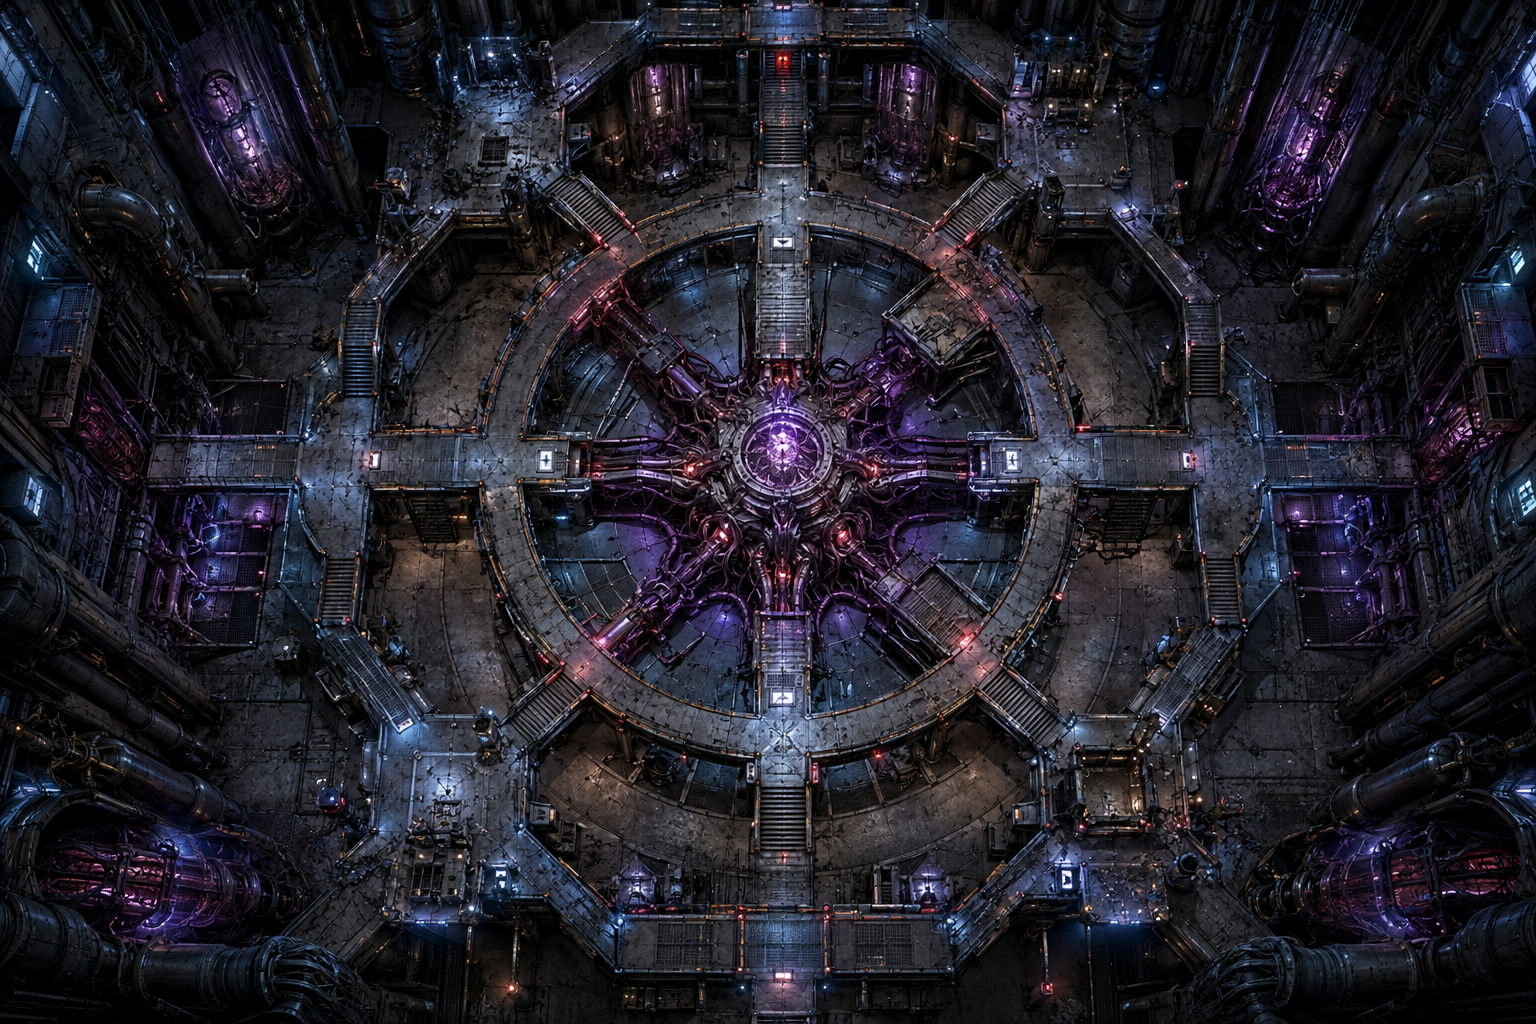
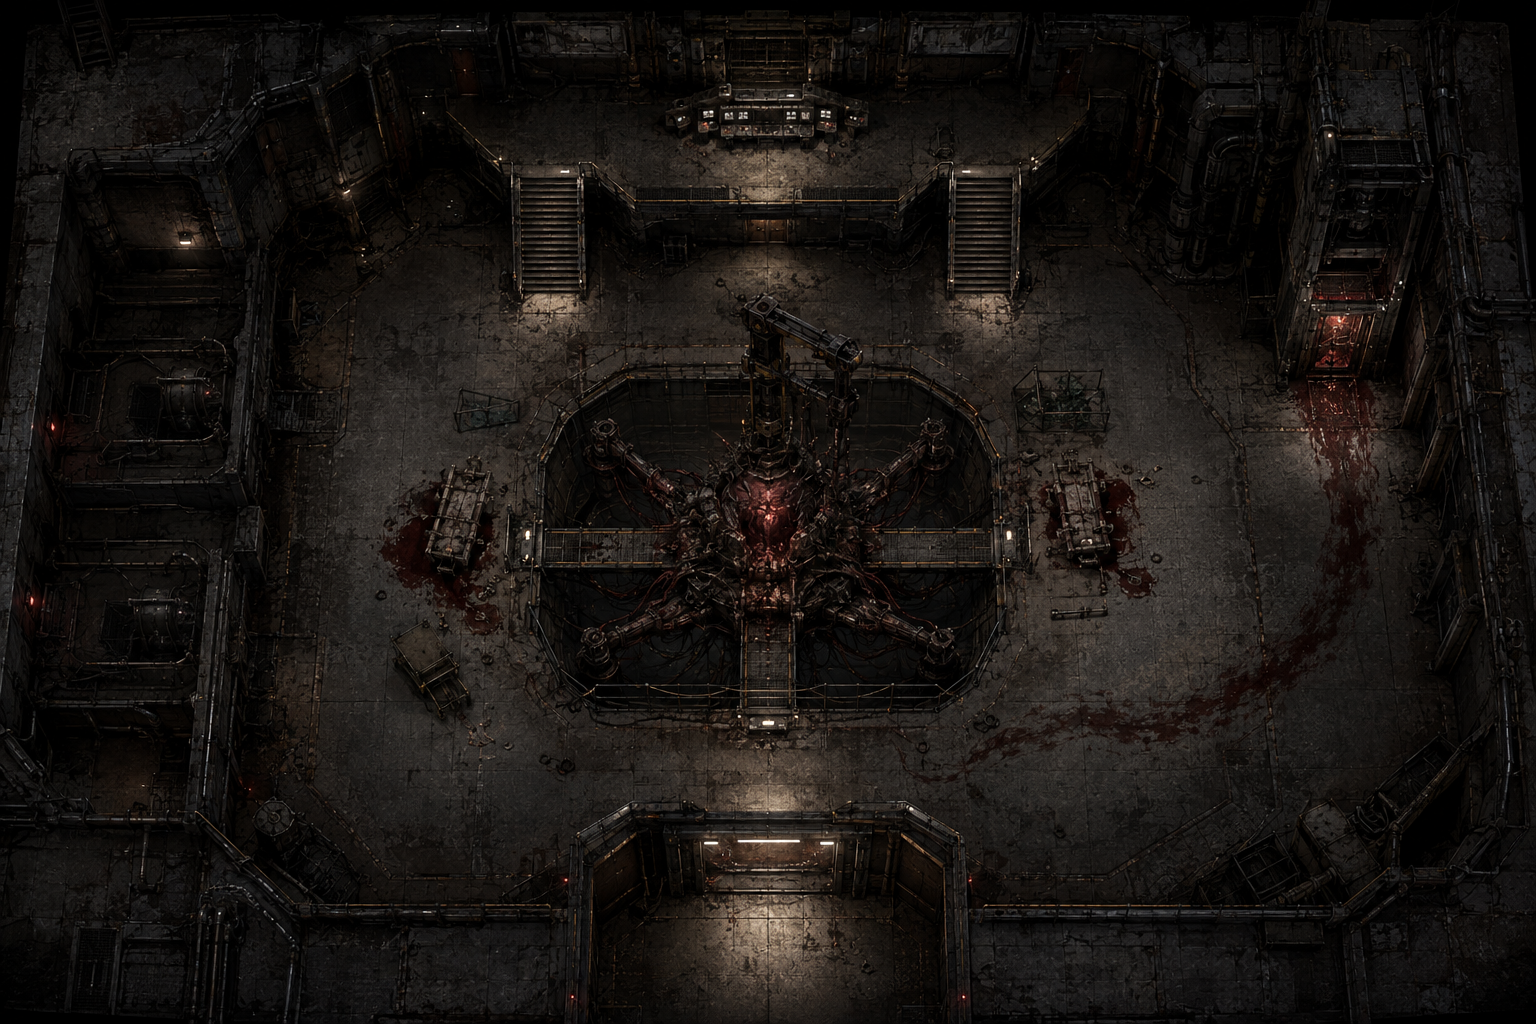
redesign sgio nest battlemaps

diff --git a/docs/sgio-nest-redesign-prompts.md b/docs/sgio-nest-redesign-prompts.md
@@ -1,0 +1,42 @@
+# S.G.I.O. — redesign sombrio do Ninho
+
+## Proveniência
+
+As duas imagens existentes foram usadas como alvos de edição pela skill `imagegen`, no modo integrado. A geometria excessivamente complexa, a simetria e a iluminação ciano/violeta foram deliberadamente removidas. Os arquivos e URLs permaneceram iguais para preservar os registros existentes da mesa.
+
+## Complexo Subterrâneo / Ninho
+
+```text
+Use case: style-transfer
+Asset type: replacement final VTT battlemap for the S.G.I.O. campaign
+Input image: Image 1 is the current Complexo Subterrâneo / Ninho map and is the edit target. Keep only its strict top-down orthographic VTT format and the core idea of a human industrial site being overtaken by biomechanical technology. Deliberately discard its dense maze, dozens of tiny rooms, bright cyan/purple neon and polished sci-fi look.
+Primary request: radically redesign the Ninho as a simpler, clearer, darker underground kidnapping and operations center used by the villain. It must feel hostile, oppressive, dirty and frightening, with environmental evidence that captives were brought here.
+New layout: one large connected floor plan with only five strongly defined playable zones and broad paths: (1) a concrete maintenance entrance with one wide corridor; (2) a holding block with a small row of empty barred containment cells and restraint fixtures; (3) a grim processing/interrogation room with empty metal tables, drains and abandoned medical equipment; (4) a broad industrial operations hall with dismantled machines, cables and two large cover islands; (5) a transformed biomechanical passage leading deeper toward the final chamber. Use few doors, few junctions and long readable sightlines. The progression from human concrete to improvised biomechanical machinery must be gradual.
+Horror storytelling: dark dried blood trails between the holding cells, processing room and deeper passage; several restrained blood smears and small irregular pools on concrete; drag marks; overturned equipment; damaged doors; empty shackles and cages. No visible victim, body or severed anatomy.
+Style/medium: grounded realistic industrial horror, cinematic but functional VTT map, rough and dirty, more abandoned slaughterhouse/bunker than colorful spaceship, original design.
+Composition/framing: STRICT 90-DEGREE TOP-DOWN ORTHOGRAPHIC VIEW, camera perfectly perpendicular, roof removed, landscape 3:2, entire map visible. Large simple rooms, wide walkable floors, bold wall silhouettes and clearly separated objects. Coherent small-token scale. Reduce visual density by at least half compared with Image 1.
+Lighting/mood: very dark, oppressive horror atmosphere using low neutral ambient exposure so floor geometry remains readable; only sparse weak dirty-white maintenance lamps and a few dim red emergency bulbs. NO bright cyan, NO purple neon, NO glowing floor strips, NO bloom, NO colorful rim light.
+Color palette: near-black, charcoal concrete, rusted brown steel, dirty gray, deep dried-blood burgundy, tiny muted red emergency accents; biomechanical material is blackened metal and dark wet organic resin, not luminous.
+Materials/textures: stained concrete, corroded steel, old pipes, bundled cables, scratched restraint hardware, dirty drains, black resin-like biomechanical growth.
+Constraints: simpler and more legible than Image 1; clear playable paths and open token placement; horror and blood are unmistakable but not graphic anatomy; no baked-in grid; no readable text; no letters; no numbers; no logos; no watermark; no UI; no frame; no tokens; no people; no bodies; no creatures; no loose weapons.
+Avoid: maze layout, many tiny chambers, decorative microdetail everywhere, symmetric spaceship deck, clean futuristic laboratory, blue/cyan glow, purple glow, excessive illumination, neon, magical energy, gore piles, corpses, monster faces, pitch-black floors that cannot be played on, isometric or oblique perspective.
+```
+
+## Câmara Central do Ninho
+
+```text
+Use case: style-transfer
+Asset type: replacement final-encounter VTT battlemap for the S.G.I.O. campaign
+Input image: Image 1 is the current Câmara Central do Ninho map and is the edit target. Preserve only its strict top-down VTT format and the premise of a monumental underground chamber. Deliberately discard its perfect radial symmetry, clean futuristic arena, intense blue-violet neon, excessive lights and decorative reactor appearance.
+Primary request: radically redesign the deepest chamber as an irregular, frightening industrial kidnapping and experimentation center that human engineers built and a biomechanical intelligence later corrupted. It must feel monumental through huge simple forms and darkness, not through thousands of tiny details.
+New geometry: an asymmetrical rectangular-to-oval cavern chamber with three unmistakable heights: (1) a broken dark peripheral upper catwalk along portions of the walls; (2) one broad intermediate operations platform reached by exactly two wide stairs; (3) a large sunken central pit holding the biomechanical machine. Player entry is at the bottom through one broad industrial doorway. Two wide routes go left and right around the pit. Exactly two sturdy bridges cross toward the core. Add one villain command balcony at the top and one freight elevator on a side wall. Use strong edges, obvious stairs and deep height shadows so each level reads clearly from above.
+Narrative center: the central machine is an improvised fusion of an old human crane/reactor and a dark biomechanical cocoon. Four to six thick cable-arms connect it to empty restraint frames and three abandoned medical tables. Nearby: cracked containment glass, open shackles, a fallen gurney and a sparse control station. The core must occupy less than one third of the playable arena, leaving a large clear circulation ring.
+Horror storytelling: a long dried-blood trail begins at the freight elevator and leads to the central machine; restrained dark blood smears and two irregular pools around the medical tables; drag marks, discarded personal belongings and opened restraint cuffs. Suggest captives through two opaque shadowed containment pods only, with no visible anatomy.
+Style/medium: grounded realistic industrial horror, brutal and dirty, cinematic but highly functional as a VTT battlemap, original design. It should look like a human underground factory converted into a secret abduction laboratory, not a spaceship or alien temple.
+Composition/framing: STRICT 90-DEGREE TOP-DOWN ORTHOGRAPHIC VIEW, camera perfectly perpendicular, roof removed, landscape 3:2, complete chamber visible. 55–65 percent of walkable surfaces remain open. Few large pieces of cover only on the sides. Bold architecture, clean token placement and readable objectives at distant zoom. Reduce visual complexity by at least half compared with Image 1.
+Lighting/mood: almost unlit and oppressive, but playable geometry remains visible through low neutral ambient exposure. Sparse weak dirty-white spotlights on the entry, stairs and bridges; a handful of dim dark-red alarm lamps; the biomechanical core emits only a faint deep crimson internal glow. NO blue neon, NO purple neon, NO glowing railings, NO luminous floor strips, NO bloom, NO uniform lighting.
+Color palette: 85 percent desaturated charcoal, burned steel, damp concrete and rust; dried-blood burgundy, sickly aged ivory on small organic parts, tiny deep-red lights.
+Materials/textures: scorched steel, corroded grating, huge pipes, stained concrete, old crane machinery, cracked glass, black resin, ribbed dark biomechanical alloy.
+Constraints: darker, simpler, clearer and more threatening than Image 1; environmental blood and kidnapping evidence are unmistakable but no graphic anatomy; no baked-in grid; no readable text; no letters; no numbers; no logos; no watermark; no UI; no frame; no tokens; no people; no exposed bodies; no creatures; no severed limbs; no loose weapons.
+Avoid: perfect circle symmetry, ornate radial arena, colorful sci-fi spectacle, purple reactor, cyan edge lights, excessive consoles, excessive stairs, cable clutter across walkable floors, fantasy temple, giant monster face, gore piles, pitch-black routes, isometric or oblique perspective.
+```

diff --git a/docs/sgio-map-generation-prompts.md b/docs/sgio-map-generation-prompts.md
@@ -4,6 +4,8 @@
 
 Os onze mapas foram produzidos com a skill `imagegen`, usando o gerador integrado. Não houve fallback por CLI/API. Todos os arquivos finais são PNG de 1536 × 1024 pixels, em visão ortográfica superior, sem grade, texto, interface, personagens ou tokens.
 
+> Em 04/09/2026, os mapas do Complexo Subterrâneo e da Câmara Central foram substituídos por versões mais simples e sombrias. Os prompts finais estão em `docs/sgio-nest-redesign-prompts.md`.
+
 ## Arquivos finais
 
 - `public/art/maps/sgio-main-base.png`
